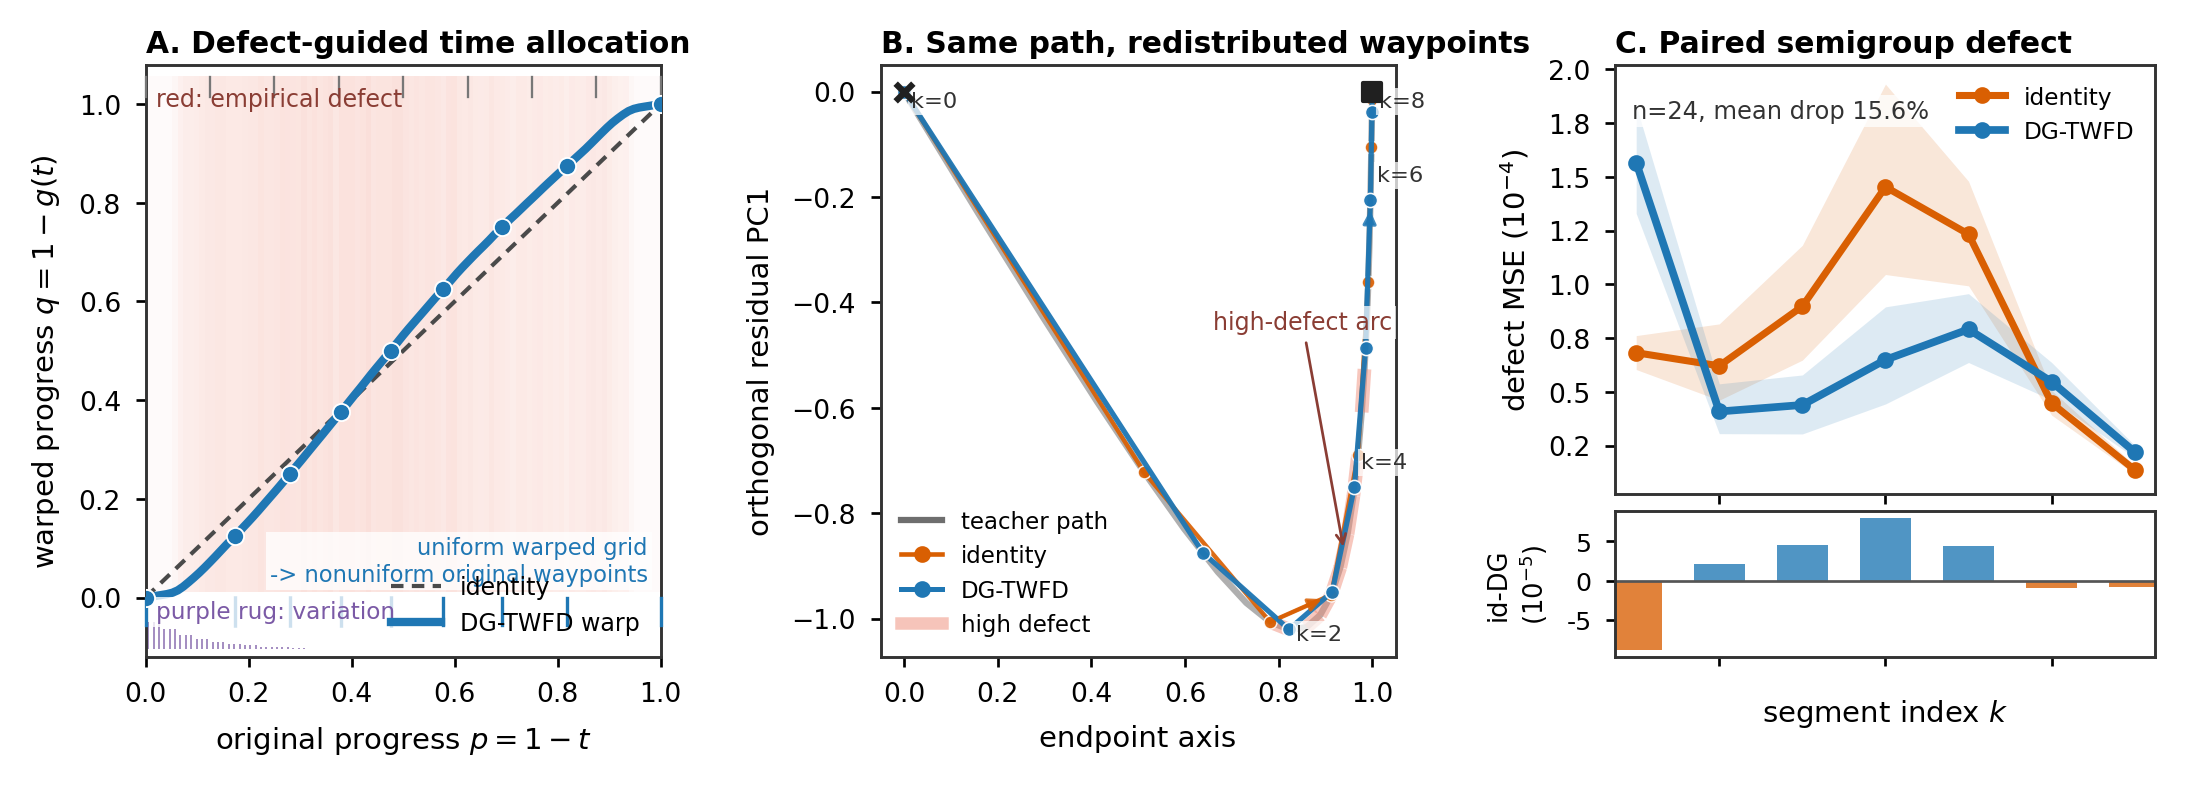
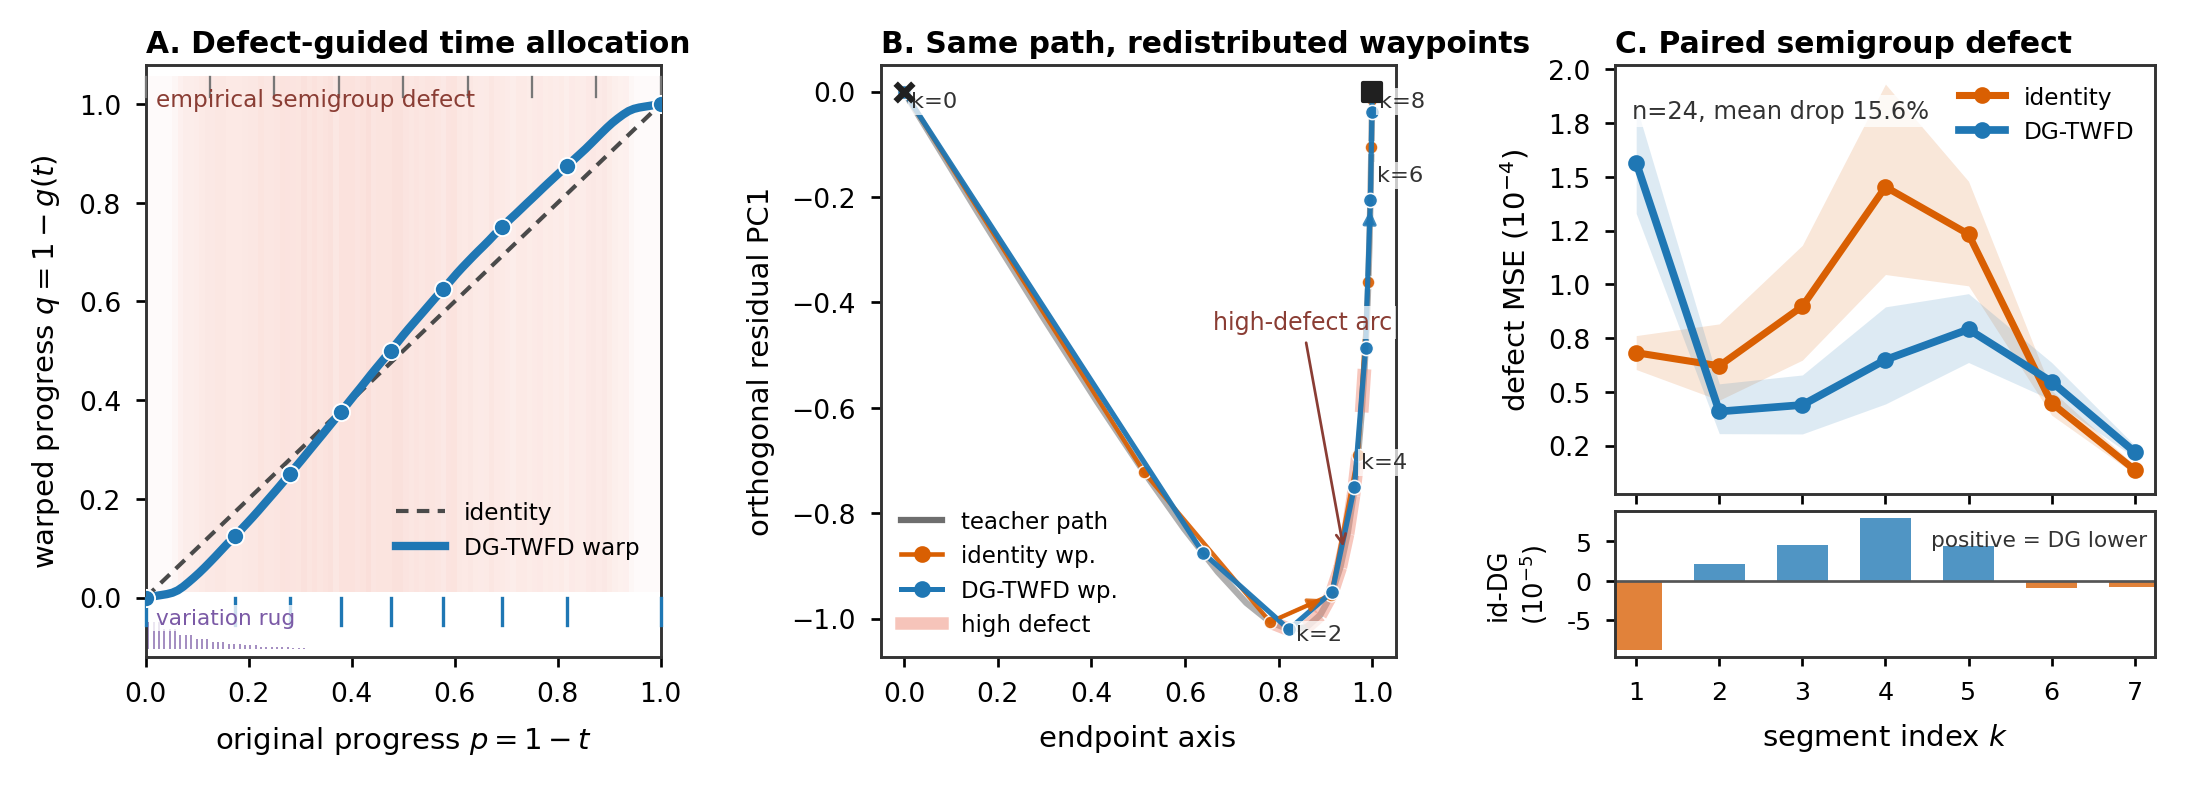
Refine time-warp mechanism figure

diff --git a/scripts/figures/redraw_timewarp_mechanism_from_npz.py b/scripts/figures/redraw_timewarp_mechanism_from_npz.py
@@ -50,6 +50,18 @@ COLORS = {
     "black": "#333333",
 }
 
+SUPPORTED_CLAIM = (
+    "DG-TWFD keeps the teacher path fixed and redistributes warped-time "
+    "waypoints toward original-time regions with high empirical semigroup "
+    "defect, reducing paired recursive semigroup defect under the same "
+    "8-step budget."
+)
+UNSUPPORTED_CLAIMS = [
+    "Pointwise teacher-path closeness improvement is not supported.",
+    "Pointwise path-error improvement is not supported.",
+    "Empirical semigroup defect and variation should not be treated as one shared heatmap.",
+]
+
 
 def _parse_args() -> argparse.Namespace:
     parser = argparse.ArgumentParser(description=__doc__)
@@ -162,24 +174,13 @@ def _draw_panel_a(ax, data: dict[str, np.ndarray]) -> dict[str, Any]:
             solid_capstyle="butt",
         )
 
-    ax.text(
-        0.975,
-        0.12,
-        "uniform warped grid\n-> nonuniform original waypoints",
-        transform=ax.transAxes,
-        fontsize=5.45,
-        ha="right",
-        va="bottom",
-        color=COLORS["dg"],
-        bbox={"facecolor": "white", "edgecolor": "none", "alpha": 0.78, "pad": 1.0},
-    )
-    ax.text(0.02, 0.93, "red: empirical defect", transform=ax.transAxes, fontsize=5.7, color="#8a3d34")
+    ax.text(0.02, 0.93, "empirical semigroup defect", transform=ax.transAxes, fontsize=5.6, color="#8a3d34")
     ax.text(
         0.02,
-        0.065,
-        "purple rug: variation",
+        0.055,
+        "variation rug",
         transform=ax.transAxes,
-        fontsize=5.6,
+        fontsize=5.2,
         color=COLORS["variation"],
         bbox={"facecolor": "white", "edgecolor": "none", "alpha": 0.78, "pad": 0.8},
     )
@@ -189,7 +190,7 @@ def _draw_panel_a(ax, data: dict[str, np.ndarray]) -> dict[str, Any]:
     ax.set_xlabel("original progress $p=1-t$", fontsize=7.0)
     ax.set_ylabel("warped progress $q=1-g(t)$", fontsize=7.0)
     _format_panel(ax, "A. Defect-guided time allocation")
-    ax.legend(loc="lower right", fontsize=5.7, frameon=False, handlelength=2.1)
+    ax.legend(loc="lower right", bbox_to_anchor=(1.0, 0.13), fontsize=5.6, frameon=False, handlelength=2.1)
     return {
         "density_mass_sum": float(density.sum()),
         "corr_density_defect": _finite_corr(density, defect),
@@ -263,7 +264,7 @@ def _draw_panel_b(ax, data: dict[str, np.ndarray]) -> dict[str, Any]:
         mew=0.35,
         alpha=0.92,
         zorder=4,
-        label="identity waypoints",
+        label="identity wp.",
     )
     ax.plot(
         dg_nodes[:, 0],
@@ -276,7 +277,7 @@ def _draw_panel_b(ax, data: dict[str, np.ndarray]) -> dict[str, Any]:
         mew=0.38,
         alpha=0.96,
         zorder=5,
-        label="DG-TWFD waypoints",
+        label="DG-TWFD wp.",
     )
     _draw_direction_arrow(ax, identity_nodes, 2, COLORS["identity"])
     _draw_direction_arrow(ax, dg_nodes, 5, COLORS["dg"])
@@ -308,8 +309,8 @@ def _draw_panel_b(ax, data: dict[str, np.ndarray]) -> dict[str, Any]:
     _format_panel(ax, "B. Same path, redistributed waypoints")
     handles = [
         Line2D([0], [0], color=COLORS["teacher"], lw=1.5, label="teacher path"),
-        Line2D([0], [0], color=COLORS["identity"], lw=1.1, marker="o", ms=3.0, label="identity"),
-        Line2D([0], [0], color=COLORS["dg"], lw=1.2, marker="o", ms=3.0, label="DG-TWFD"),
+        Line2D([0], [0], color=COLORS["identity"], lw=1.1, marker="o", ms=3.0, label="identity wp."),
+        Line2D([0], [0], color=COLORS["dg"], lw=1.2, marker="o", ms=3.0, label="DG-TWFD wp."),
         Line2D([0], [0], color=COLORS["defect"], lw=3.0, alpha=0.5, label="high defect"),
     ]
     ax.legend(handles=handles, loc="best", fontsize=5.5, frameon=False, handlelength=1.8)
@@ -334,7 +335,7 @@ def _draw_panel_c(ax_top, ax_bar, data: dict[str, np.ndarray], *, seed: int, boo
     ax_top.plot(segment_x, dg_mean, color=COLORS["dg"], lw=1.85, marker="o", ms=3.0, label="DG-TWFD")
     ax_top.fill_between(segment_x, dg_lo, dg_hi, color=COLORS["dg"], alpha=0.15, lw=0)
     ax_top.set_xlim(0.75, identity.shape[1] + 0.25)
-    ax_top.set_xticklabels([])
+    ax_top.tick_params(labelbottom=False)
     ax_top.set_ylabel("defect MSE ($10^{-4}$)", fontsize=7.0)
     ax_top.yaxis.set_major_formatter(FuncFormatter(lambda value, _pos: f"{value * 1.0e4:.1f}"))
     _format_panel(ax_top, "C. Paired semigroup defect")
@@ -360,10 +361,21 @@ def _draw_panel_c(ax_top, ax_bar, data: dict[str, np.ndarray], *, seed: int, boo
     ax_bar.axhline(0.0, color="#555555", lw=0.65)
     ax_bar.bar(segment_x, paired_mean, width=0.62, color=colors, alpha=0.78, edgecolor="none")
     ax_bar.set_xlim(0.75, identity.shape[1] + 0.25)
+    ax_bar.set_xticks(segment_x)
     ax_bar.set_xlabel("segment index $k$", fontsize=7.0)
     ax_bar.set_ylabel("id-DG\n($10^{-5}$)", fontsize=6.2)
     ax_bar.tick_params(axis="both", labelsize=6.1, width=0.65, length=2.2)
     ax_bar.yaxis.set_major_formatter(FuncFormatter(lambda value, _pos: f"{value * 1.0e5:.0f}"))
+    ax_bar.text(
+        0.985,
+        0.87,
+        "positive = DG lower",
+        transform=ax_bar.transAxes,
+        fontsize=5.2,
+        ha="right",
+        va="top",
+        color=COLORS["black"],
+    )
     for spine in ax_bar.spines.values():
         spine.set_linewidth(0.7)
         spine.set_color("#333333")
@@ -385,9 +397,8 @@ def _draw_panel_c(ax_top, ax_bar, data: dict[str, np.ndarray], *, seed: int, boo
 
 def _save_caption(output_dir: Path) -> None:
     caption = r"""\textbf{Real-trajectory mechanism of defect-guided time warping.}
-The learned clock allocates larger warped-time mass to original-time regions with high empirical semigroup defect, so uniform warped-time sampling induces non-uniform original-time waypoints.
-On a held-out CIFAR-10 trajectory, the teacher path is unchanged while the low-step waypoint traversal is redistributed toward the high-defect segment.
-Across held-out trajectories, DG-TWFD reduces paired semigroup defect under the same step budget.
+The learned clock allocates larger warped-time mass to original-time regions with high empirical semigroup defect, so uniform warped-time sampling induces non-uniform original-time waypoints while leaving the teacher path unchanged.
+On a held-out CIFAR-10 trajectory, DG-TWFD redistributes the 8-step waypoint traversal toward a high-defect segment; across 24 held-out trajectories, it reduces paired recursive semigroup defect by 15.6\% under the same step budget.
 """
     (output_dir / "caption.tex").write_text(caption, encoding="utf-8")
 
@@ -406,6 +417,8 @@ def _write_manifest(output_dir: Path, manifest: dict[str, Any], redraw: dict[str
         "data": str((output_dir / "timewarp_mechanism_data.npz").relative_to(ROOT)),
         "caption": str((output_dir / "caption.tex").relative_to(ROOT)),
     }
+    manifest["supported_claim"] = SUPPORTED_CLAIM
+    manifest["unsupported_claims"] = UNSUPPORTED_CLAIMS
     manifest["redraw"] = redraw
     (output_dir / "timewarp_mechanism_manifest.json").write_text(
         json.dumps(manifest, indent=2, ensure_ascii=False) + "\n",
@@ -467,9 +480,10 @@ def main() -> None:
 
     _save_caption(output_dir)
     redraw = {
-        "version": "v2_neurips_mechanism_redraw",
+        "version": "v3_neurips_mechanism_redraw",
         "script": str(Path(__file__).resolve().relative_to(ROOT)),
-        "claim": "time allocation and paired semigroup-defect reduction; no pointwise teacher-path closeness claim",
+        "claim": SUPPORTED_CLAIM,
+        "unsupported_claims": UNSUPPORTED_CLAIMS,
         "data_source": str(data_path.relative_to(ROOT)),
         "panels": {
             "A": panel_a,
@@ -481,7 +495,7 @@ def main() -> None:
             "common_path_dg_mean_error": manifest.get("aggregate", {}).get("common_path_dg_mean_error"),
             "node_identity_mean_error": manifest.get("aggregate", {}).get("node_identity_mean_error"),
             "node_dg_mean_error": manifest.get("aggregate", {}).get("node_dg_mean_error"),
-            "interpretation": "These pointwise path metrics do not support claiming DG is closer to the teacher path.",
+            "interpretation": "These pointwise path metrics support only a cautionary interpretation, not a path-closeness improvement claim.",
         },
     }
     _write_manifest(output_dir, manifest, redraw)

diff --git a/docs/experiments/DG_TWFD_v3/figures/mechanism/timewarp_mechanism_20260502/caption.tex b/docs/experiments/DG_TWFD_v3/figures/mechanism/timewarp_mechanism_20260502/caption.tex
@@ -1,4 +1,3 @@
 \textbf{Real-trajectory mechanism of defect-guided time warping.}
-The learned clock allocates larger warped-time mass to original-time regions with high empirical semigroup defect, so uniform warped-time sampling induces non-uniform original-time waypoints.
-On a held-out CIFAR-10 trajectory, the teacher path is unchanged while the low-step waypoint traversal is redistributed toward the high-defect segment.
-Across held-out trajectories, DG-TWFD reduces paired semigroup defect under the same step budget.
+The learned clock allocates larger warped-time mass to original-time regions with high empirical semigroup defect, so uniform warped-time sampling induces non-uniform original-time waypoints while leaving the teacher path unchanged.
+On a held-out CIFAR-10 trajectory, DG-TWFD redistributes the 8-step waypoint traversal toward a high-defect segment; across 24 held-out trajectories, it reduces paired recursive semigroup defect by 15.6\% under the same step budget.